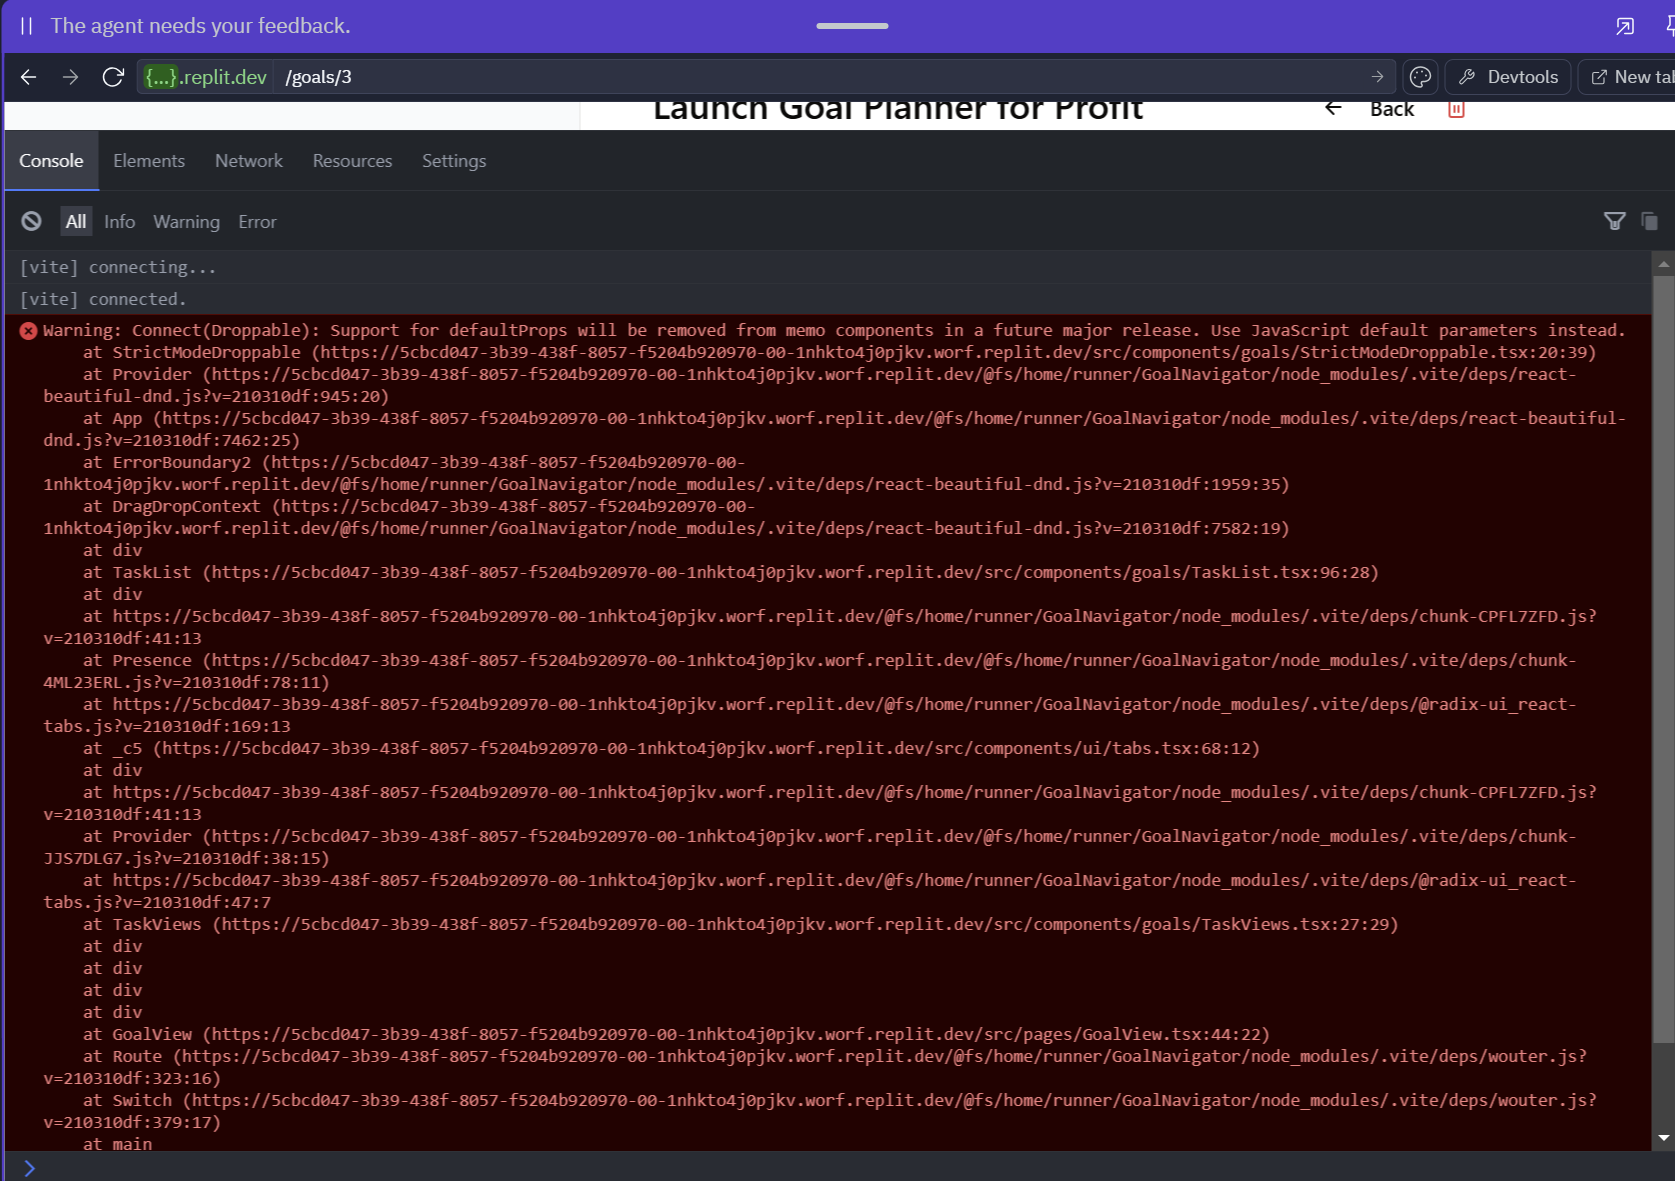
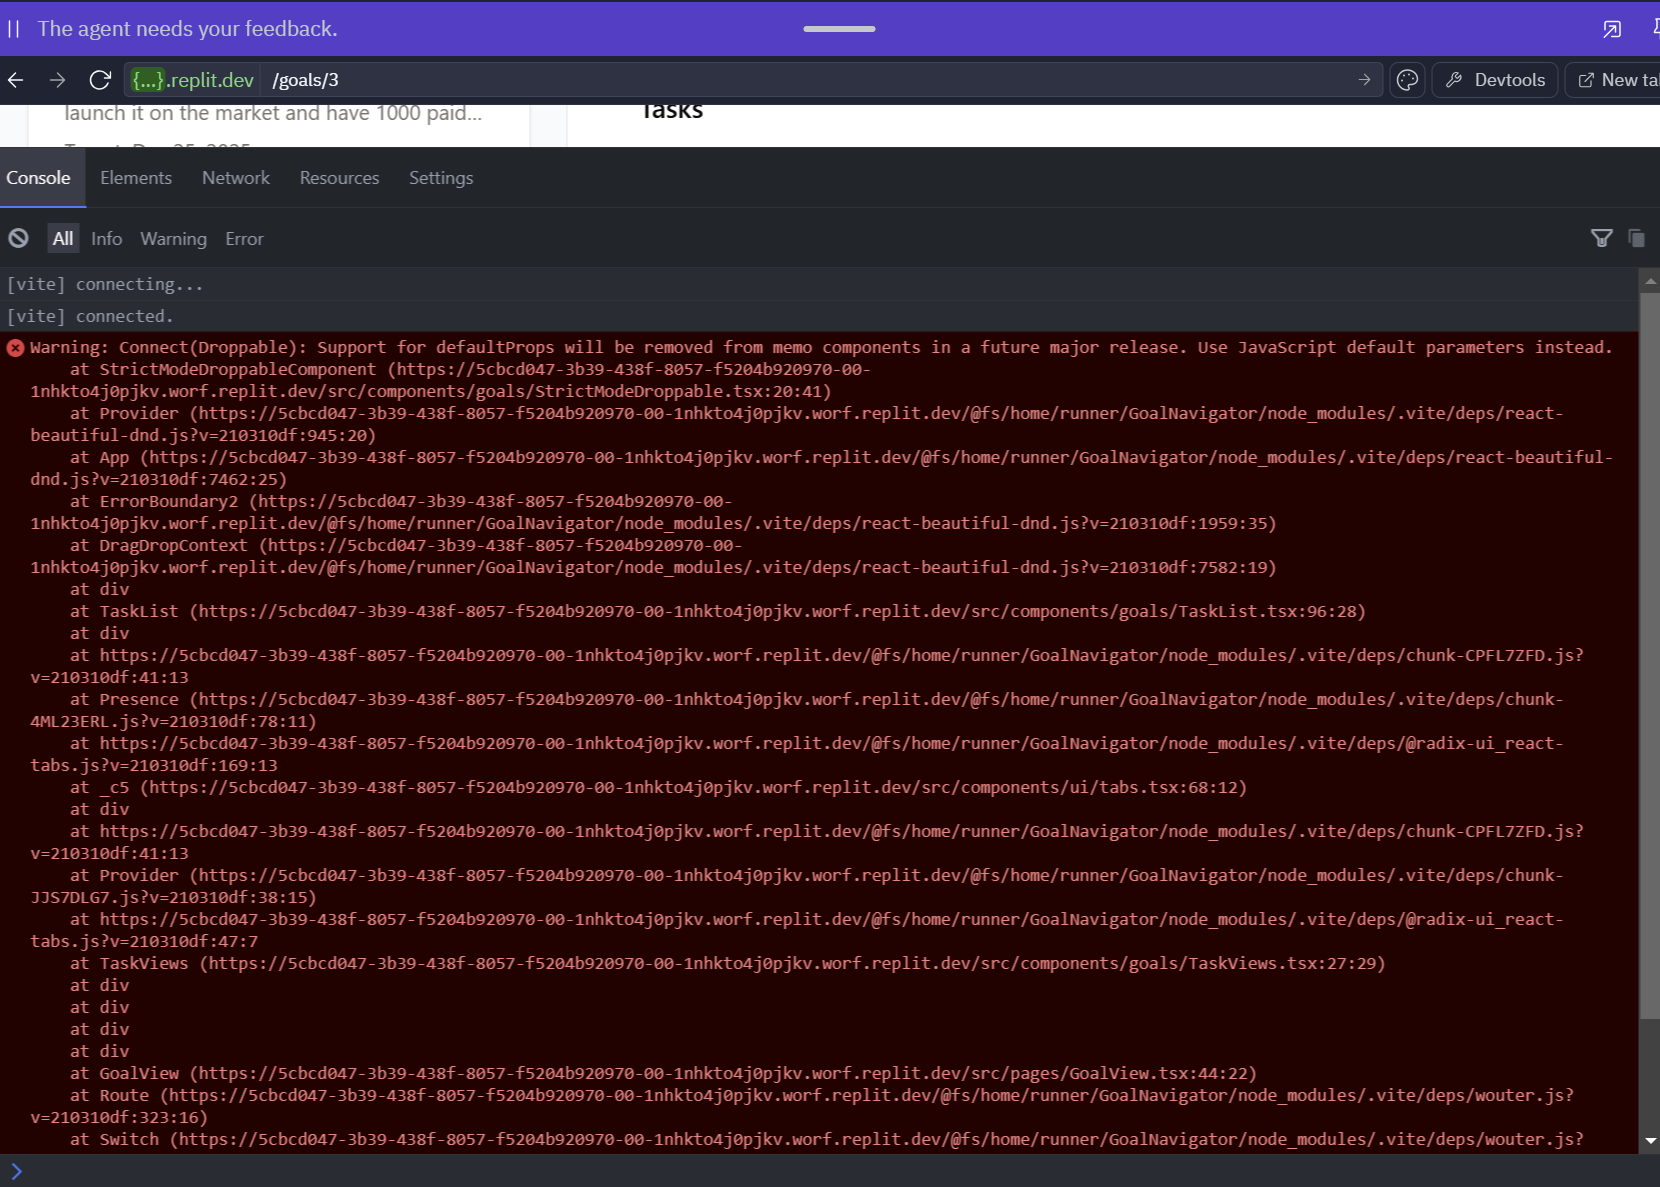
Agent query: Please try dragging and dropping tasks again. The reordering should work without any console errors now.
Improve StrictModeDroppable and add drag-over visual feedback to TaskList.

Screenshot: https://storage.googleapis.com/screenshot-production-us-central1/5cbcd047-3b39-438f-8057-f5204b920970/415d6862-f062-4275-af4e-630811e785c3.jpg

Changed region(s): [[0.0, 0.0, 1.0, 1.0]]

diff --git a/client/src/components/goals/TaskList.tsx b/client/src/components/goals/TaskList.tsx
@@ -269,11 +269,11 @@ export function TaskList({ tasks, goalId, readOnly = false, onUpdateTaskDate }: 
 
         <DragDropContext onDragEnd={handleDragEnd}>
           <StrictModeDroppable droppableId="main-tasks" type="MAIN_TASK">
-            {(provided) => (
+            {(provided, snapshot) => (
               <div
                 ref={provided.innerRef}
                 {...provided.droppableProps}
-                className="space-y-2"
+                className={cn("space-y-2", snapshot.isDraggingOver && "bg-accent/50")}
               >
                 {mainTasks.map((mainTask, index) => (
                   <Draggable
@@ -419,11 +419,11 @@ export function TaskList({ tasks, goalId, readOnly = false, onUpdateTaskDate }: 
                               droppableId={`subtasks-${mainTask.id}`} 
                               type={`SUBTASK-${mainTask.id}`}
                             >
-                              {(provided) => (
+                              {(provided, snapshot) => (
                                 <div
                                   ref={provided.innerRef}
                                   {...provided.droppableProps}
-                                  className="space-y-2"
+                                  className={cn("space-y-2", snapshot.isDraggingOver && "bg-accent/50")}
                                 >
                                   {getOrderedSubtasks(mainTask.id).map((subtask, index) => (
                                     <Draggable

diff --git a/client/src/components/goals/StrictModeDroppable.tsx b/client/src/components/goals/StrictModeDroppable.tsx
@@ -1,11 +1,11 @@
-import { useEffect, useState, memo } from "react";
-import { Droppable, DroppableProps } from "react-beautiful-dnd";
+import { useEffect, useState } from "react";
+import { Droppable, type DroppableProps } from "react-beautiful-dnd";
 
 /**
  * A wrapper component that makes react-beautiful-dnd work in React.StrictMode
  * This is needed because react-beautiful-dnd's Droppable has issues with StrictMode's double-mounting
  */
-function StrictModeDroppableComponent({ children, ...props }: DroppableProps) {
+export function StrictModeDroppable(props: DroppableProps) {
   const [enabled, setEnabled] = useState(false);
 
   useEffect(() => {
@@ -25,10 +25,9 @@ function StrictModeDroppableComponent({ children, ...props }: DroppableProps) {
   }, []);
 
   if (!enabled) {
+    // Render a placeholder div to maintain layout while the droppable initializes
     return <div style={{ minHeight: 1 }} />;
   }
 
-  return <Droppable {...props}>{children}</Droppable>;
+  return <Droppable {...props}>{props.children}</Droppable>;
 }
-
-export const StrictModeDroppable = memo(StrictModeDroppableComponent);
